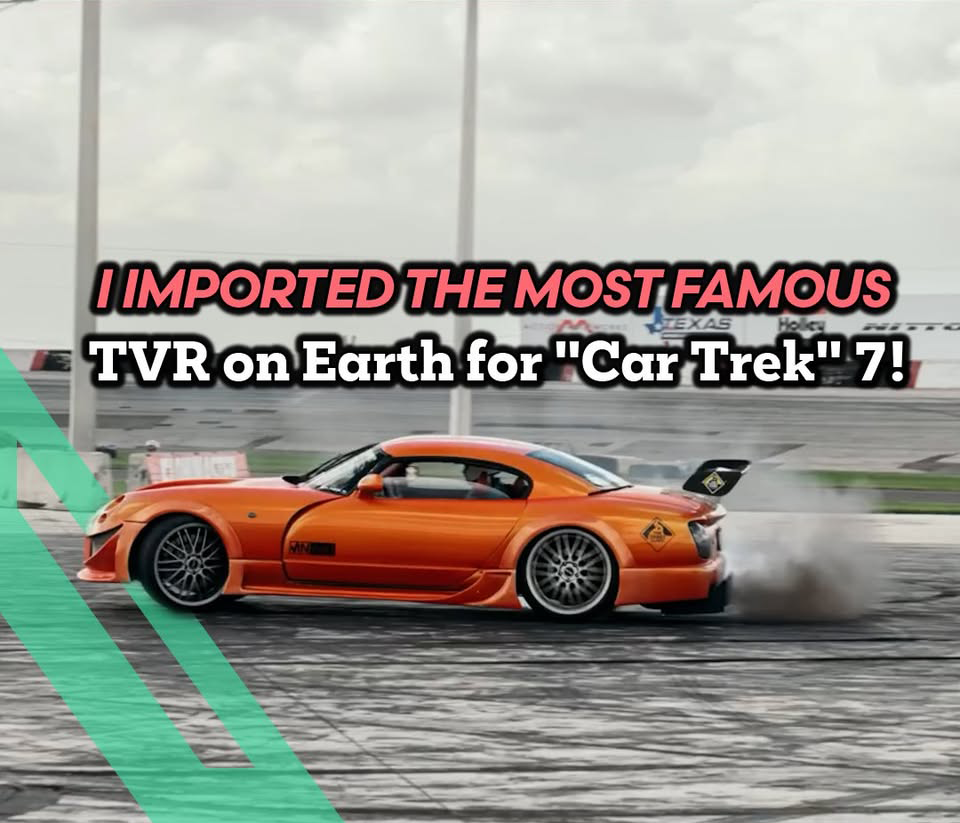
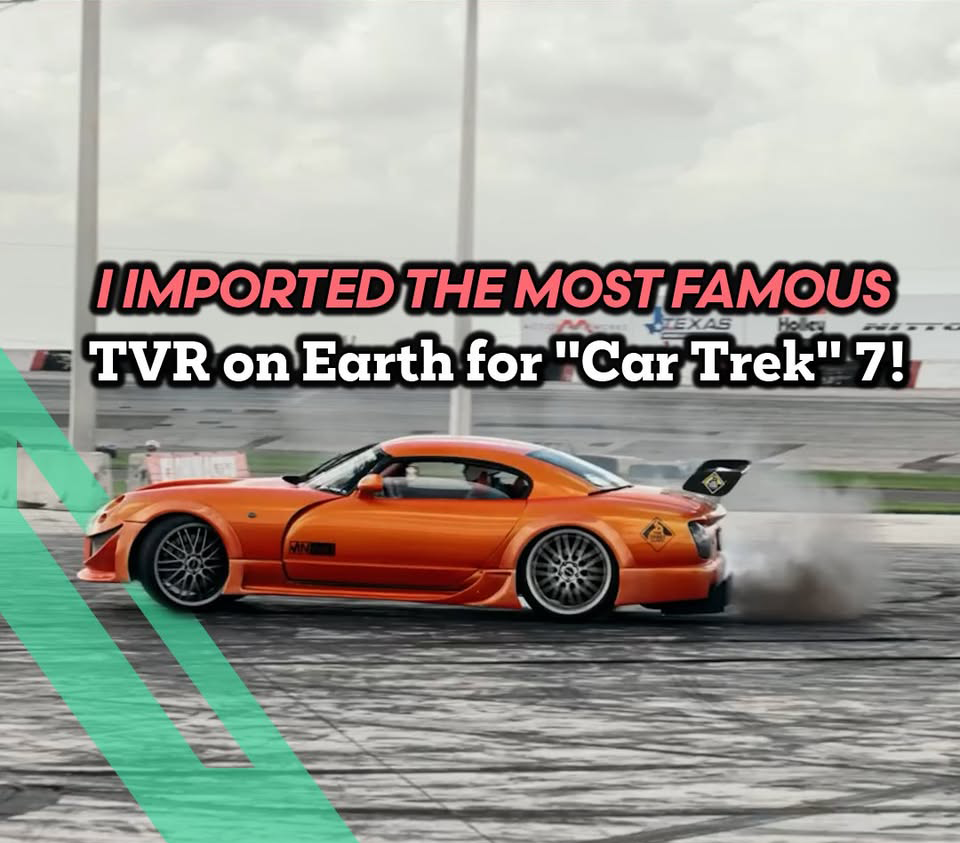
resume

diff --git a/src/pages/Results.tsx b/src/pages/Results.tsx
@@ -54,6 +54,15 @@ const projects = [
   },
   {
     id: 4,
+    title: "Restoration",         // CHANGE: project title
+    creator: "Cool Again Restoration",           // CHANGE: creator name
+    thumbnail: "/image4", // CHANGE: thumbnail URL
+    videoUrl: "https://www.snapchat.com/p/3a3ba2c4-6988-40bd-b665-376e38566ab8/1146091361204224", // CHANGE: video link
+    stats: "2M+ Views",                        // CHANGE: headline stat
+    platforms: ["Snapchat"] // CHANGE: platforms used
+  },
+  {
+    id: 4,
     title: "Tech Reviews Distribution",         // CHANGE: project title
     creator: "Placeholder Creator 4",           // CHANGE: creator name
     thumbnail: "https://picsum.photos/seed/tech/800/450", // CHANGE: thumbnail URL
